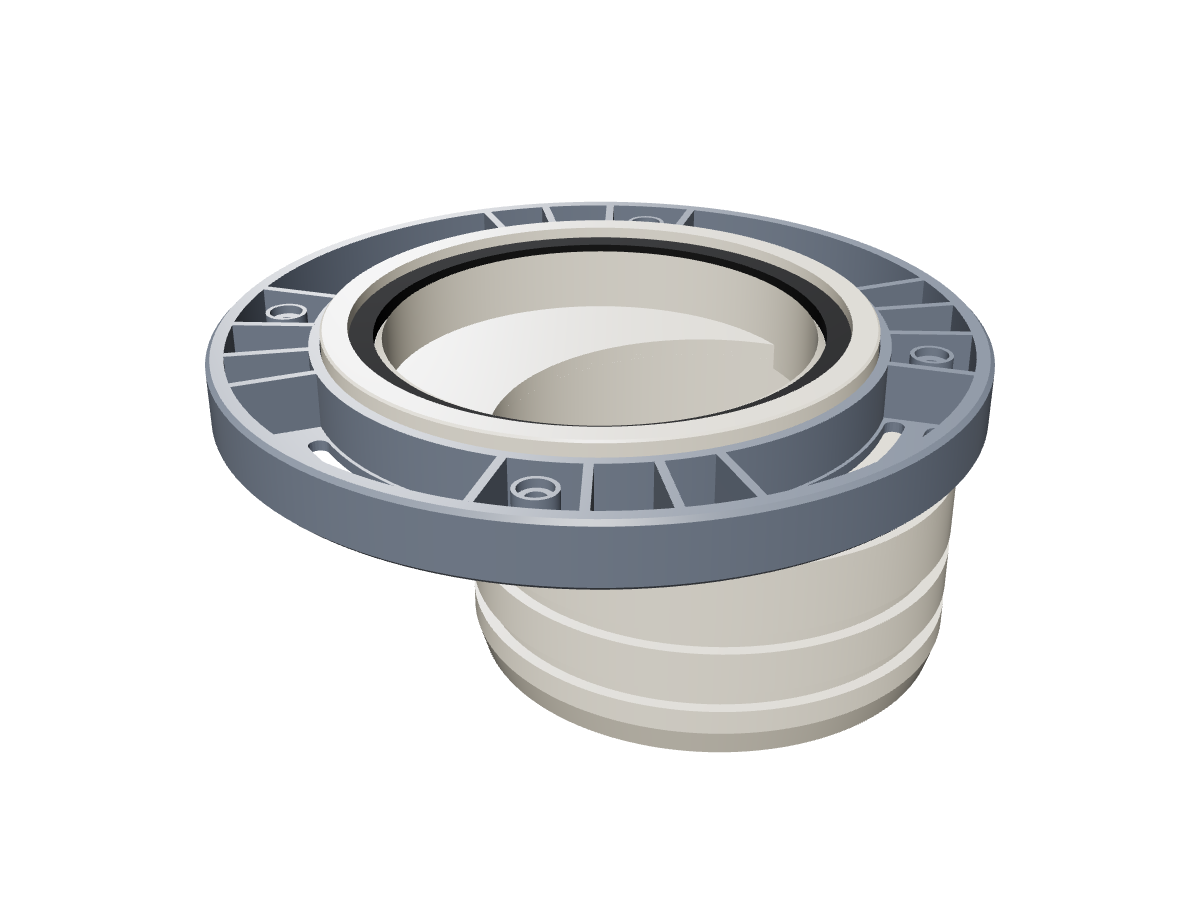
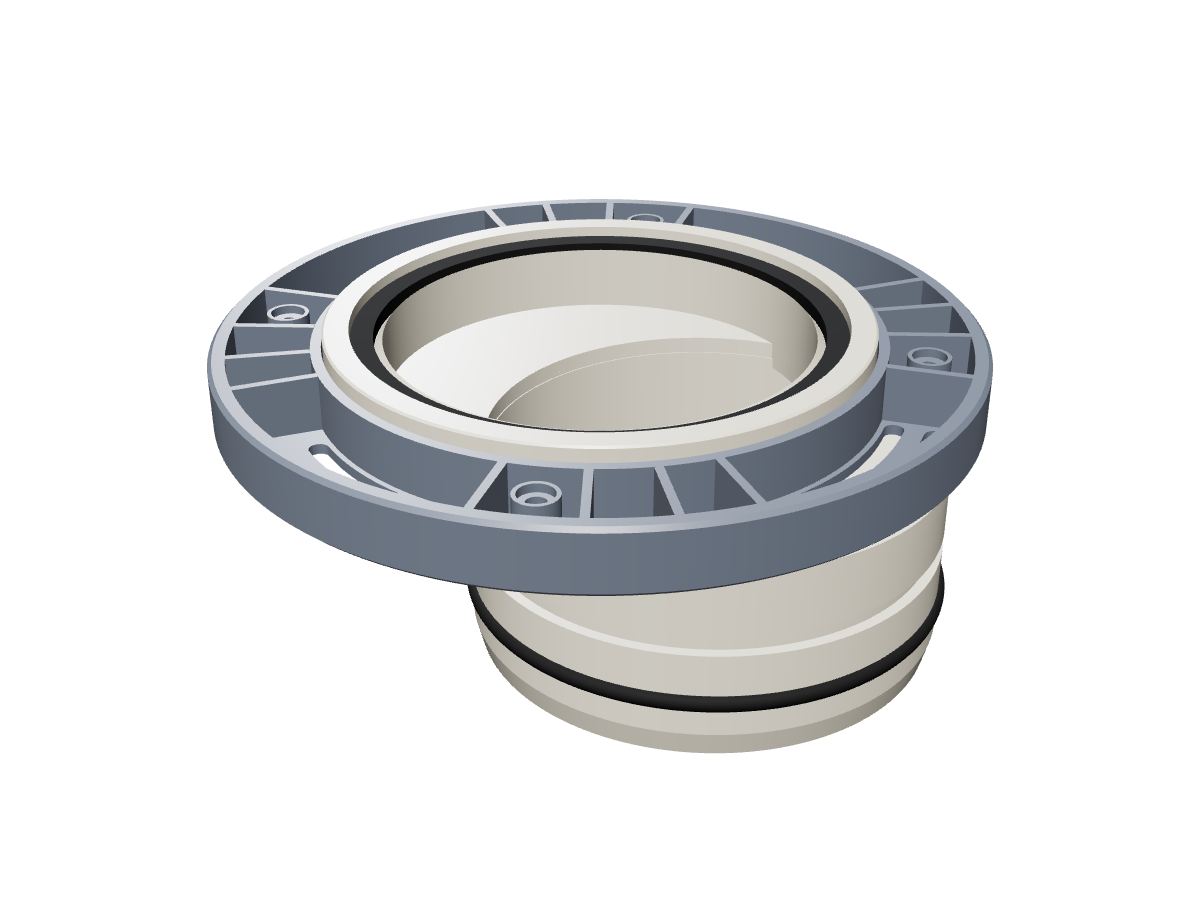
Flange picture: re-render with O-ring in the lower pipe groove

diff --git a/products-data.js b/products-data.js
@@ -22,7 +22,8 @@ const PRODUCTS = [
       {
         name: '직편심 플랜지',
         spec: ['편심 거리 : 32.5 mm'],
-        img: 'images/offset-flange.png',
+        img: 'images/offset-flange.png?v=20261124',
+        fit: 'contain',
         link: 'product-offset-flange.html',
         is3d: true,
       },

diff --git a/products.html b/products.html
@@ -130,7 +130,7 @@
     <svg viewBox="0 0 24 24"><path d="M18 15l-6-6-6 6"/></svg>
   </a>
 
-  <script src="products-data.js?v=20261124g"></script>
+  <script src="products-data.js?v=20261124h"></script>
   <script src="script.js?v=20261124a"></script>
 </body>
 </html>
